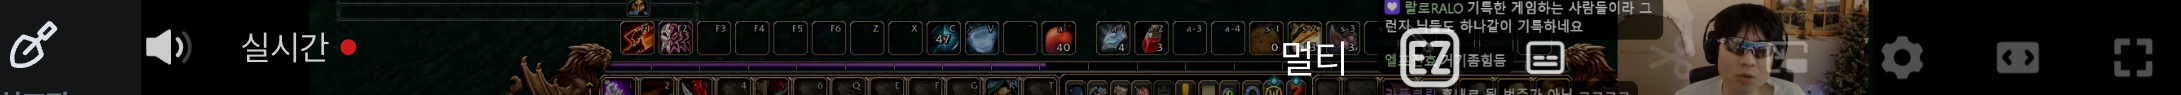
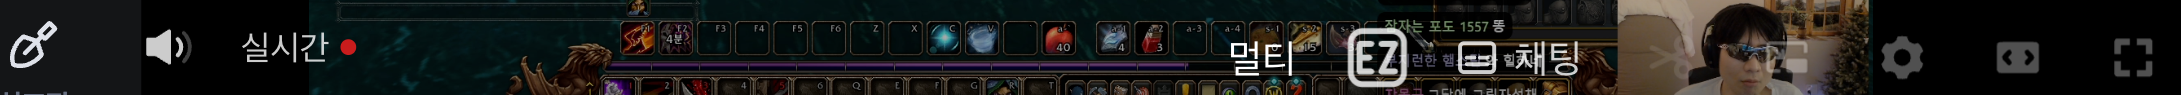
feat: label chat overlay toggle in single and multiview

diff --git a/src/features/controlBar.ts b/src/features/controlBar.ts
@@ -107,6 +107,8 @@ export type ControlBarButtonOptions = {
   /** 인라인 SVG 아이콘. `content` 와 함께 주면 아이콘이 이긴다. */
   icon?: IconName;
   iconSize?: number;
+  /** 아이콘 오른쪽에 함께 표시할 이름. */
+  iconLabel?: string;
   /** 지정한 네이티브 버튼 바로 앞에 삽입한다. 없으면 그룹 맨 앞에 둔다. */
   before?: string;
   onClick: () => void;
@@ -148,6 +150,18 @@ function buildButton(options: ControlBarButtonOptions): HTMLButtonElement {
     'line-height: 1',
     'padding: 0',
   ].join('; ');
+
+  if (options.icon && options.iconLabel) {
+    const label = document.createElement('span');
+    label.textContent = options.iconLabel;
+    label.setAttribute('aria-hidden', 'true');
+    button.appendChild(label);
+    button.style.width = 'auto';
+    button.style.minWidth = `${size}px`;
+    button.style.padding = '0 8px';
+    button.style.gap = '6px';
+    button.style.whiteSpace = 'nowrap';
+  }
 
   if (options.badge) {
     const badge = document.createElement('span');

diff --git a/src/features/chatSubtitleButton.ts b/src/features/chatSubtitleButton.ts
@@ -42,6 +42,7 @@ export const chatSubtitleButtonFeature: Feature = {
       id: CHAT_SUBTITLE_BUTTON_ID,
       ariaLabel: '자막형 채팅 켜기',
       icon: 'captions',
+      iconLabel: '채팅',
       minTargetPx: ctx.device.profile.touchTargetPx,
       onClick: toggle,
       onMount: (button) => {
@@ -61,6 +62,10 @@ export const chatSubtitleButtonFeature: Feature = {
           stageButton.id = CHAT_SUBTITLE_STAGE_BUTTON_ID;
           stageButton.type = 'button';
           stageButton.appendChild(createIconElement('captions'));
+          const label = document.createElement('span');
+          label.className = 'cm-stage-bar__label';
+          label.textContent = '채팅';
+          stageButton.appendChild(label);
           stageButton.addEventListener('click', (event) => {
             event.preventDefault();
             event.stopPropagation();

diff --git a/src/features/chatSubtitleButton.test.ts b/src/features/chatSubtitleButton.test.ts
@@ -56,7 +56,7 @@ describe('자막형 채팅 아이콘', () => {
     stop = chatSubtitleButtonFeature.start(context());
     expect(button().querySelector('svg')).not.toBeNull();
     expect(button().getAttribute('aria-pressed')).toBe('false');
-    expect(parseInt(button().style.width)).toBeGreaterThanOrEqual(44);
+    expect(parseInt(button().style.minWidth || button().style.width)).toBeGreaterThanOrEqual(44);
     const playerClick = vi.fn();
     document.querySelector('.pzp-pc')!.addEventListener('click', playerClick);
     button().click();

diff --git a/screenshots/settings-icon.md b/screenshots/settings-icon.md
@@ -5,6 +5,7 @@
 - 싱글뷰: 24px SVG, `이지직 설정` 툴팁.
 - 멀티뷰: 20px SVG와 `설정` 글자, `이지직 설정 열기` 툴팁.
 - 두 화면이 같은 SVG 형상을 공유하고 주변 버튼과 같은 색상을 사용한다.
+- 채팅 오버레이 버튼은 아이콘 오른쪽에 `채팅` 이름을 표시한다. 멀티뷰의 좁은 화면에서는 다른 버튼과 같이 이름만 숨기고 터치 영역을 유지한다.
 
 ## 실제 화면
 
